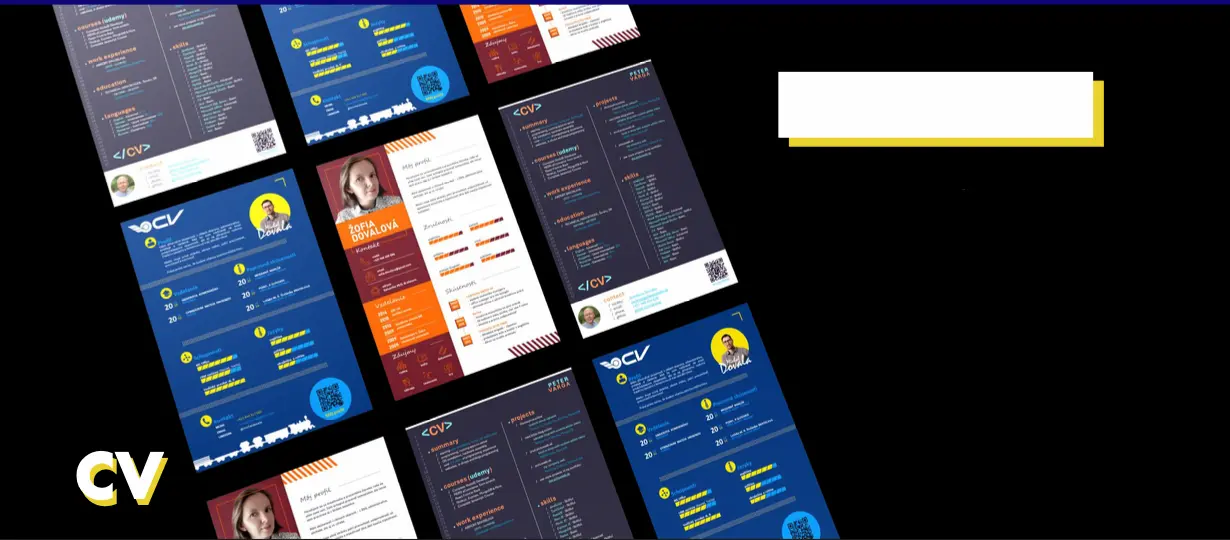
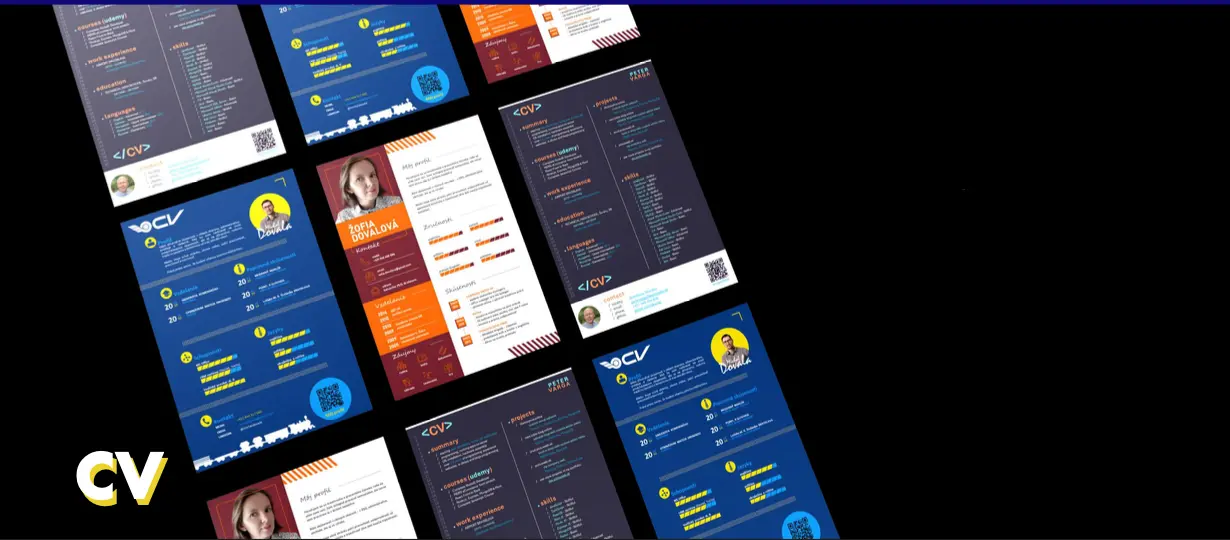
cv

Changed region(s): [[0.6179, 0.1185, 0.8959, 0.2963]]

diff --git a/app/components/portfolio/Gallery2.tsx b/app/components/portfolio/Gallery2.tsx
@@ -5,16 +5,27 @@ import Image from 'next/image';
 const Gallery2 = () => {
   return (
     <>
-      <div className="hidden h-screen flex-col bg-[#060085] lg:flex">
+      <div className="relative hidden h-screen flex-col bg-[#060085] lg:flex">
         <div className="pb-8 lg:pt-[2%] 2xl:pt-[3%]">
           <Header />
         </div>
+
         <div>
+          <div className="absolute right-[10%] top-[31%] hidden lg:flex 2xl:right-[5%] 2xl:top-[30%]">
+            <div>
+              <div className="ml-[10px] h-[85px] w-[290px] bg-[#edd900]"></div>
+              <div className=" -mt-[93px] mr-4 bg-[#ffffff] px-4 py-2 text-[30px]">
+                <h1 className="text-[45px] font-black uppercase text-green-900">
+                  Cv na mieru
+                </h1>
+              </div>
+            </div>
+          </div>
           <Image
             height={1000}
             width={1000}
             alt="michal dovala"
-            src={'/gallery002.webp'}
+            src={'/gallery002.png'}
             className="w-screen"
           />
         </div>
